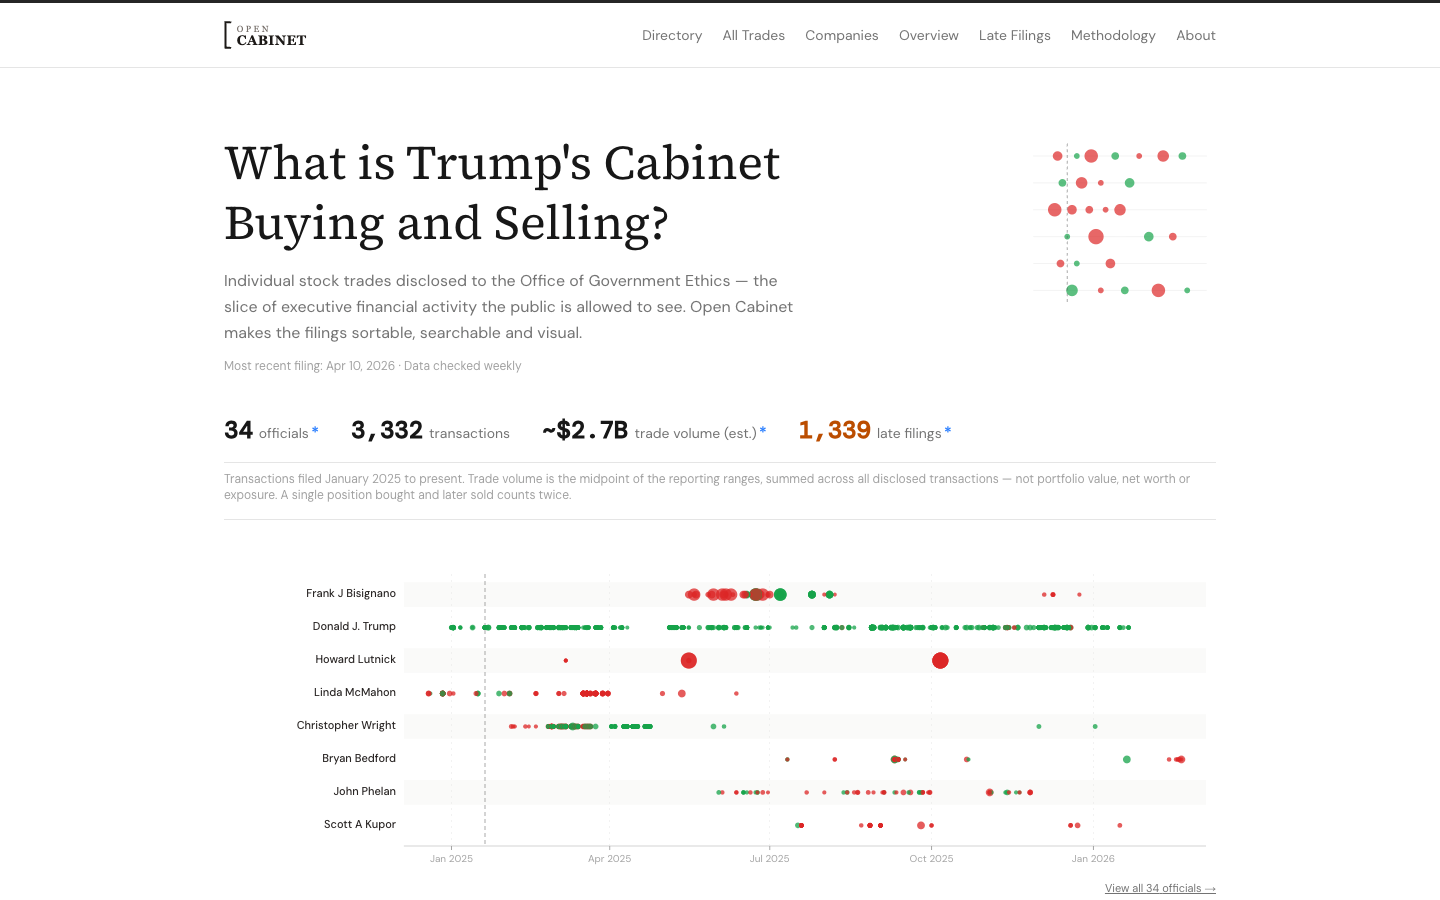
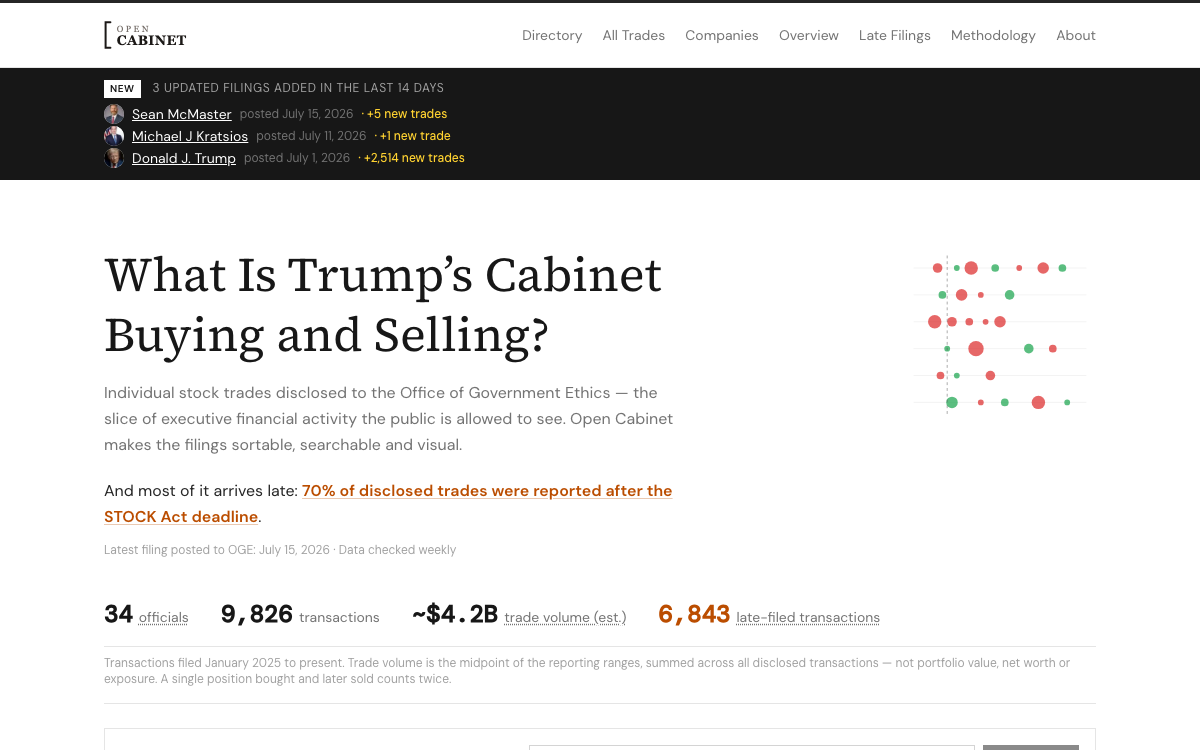
Refresh project stats to live-site numbers; add FOIA Tracker and Still in the Loop cards
- Open Cabinet: 9,800+ transactions, $4.2B, 70% late-filed finding (was 3,300+/$2.7B)
- Capitol Releases: all 535 members of Congress, 90,000+ records (was 100 senators/35,000)
- Delegation Decoded: aligned to live site (535 voting members, 4,800+ trades)
- New cards: FOIA Tracker and Still in the Loop; Still in the Loop replaces AI Model Arena in homepage featured six
- Mobile screenshots for all five civic cards, refreshed desktop shots
- KBD 'more than tripled' consistent site-wide (was 33% in two places)
- New OG image and meta description naming the open-government tools

diff --git a/content/demos.js b/content/demos.js
@@ -7,13 +7,13 @@ export const demoProjects = [
     slug: "delegation-decoded",
     subtitle: "Congressional Accountability, Organized by State Delegation",
     oneLiner: [
-      "Congressional tracker for all 538 members organized by state delegation — voting records, committees, campaign finance and STOCK Act trades pulled from six federal data sources into one Postgres schema.",
-      "House STOCK Act PDFs cracked with Claude Sonnet 4.6 vision — 4,350 trades parsed at 99.95% above the 80% confidence floor, with bogus-ticker filtering and a fallback enrichment pass.",
+      "Congressional tracker for all 535 voting members organized by state delegation — votes, bills, committees and campaign money pulled from official federal data sources into one Postgres schema.",
+      "House STOCK Act PDFs cracked with Claude Sonnet 4.6 vision — 4,800+ trades parsed at 99.95% above the 80% confidence floor, with bogus-ticker filtering and a fallback enrichment pass.",
     ],
     highlights: [
-      "538 members across 50 state delegations + DC + 5 territories",
-      "Six federal sources — Congress.gov, FEC, House Clerk, Senate eFD, roll-call XML, @unitedstates",
-      "4,350 STOCK Act trades from 215 filings (House PDFs + Senate HTML)",
+      "535 voting members across 50 state delegations — 537 tracked with delegates",
+      "Four federal data sources unified in one Postgres schema",
+      "4,800+ STOCK Act trades from 300+ filings (House PDFs + Senate HTML)",
       "Claude Sonnet 4.6 vision parsing of scanned House PTR PDFs",
       "Idempotent ingestion with live sync log + /health endpoint",
       "Dedicated /for-journalists page with downloads and citation language",
@@ -30,7 +30,7 @@ export const demoProjects = [
     screenshots: {
       desktopLight: "/images/demos/delegation-decoded-desktop-light.png",
       desktopDark: null,
-      mobileLight: null,
+      mobileLight: "/images/demos/delegation-decoded-mobile-light.png",
       mobileDark: null,
     },
     displayUrl: "delegation-decoded.vercel.app",
@@ -44,14 +44,14 @@ export const demoProjects = [
     slug: "open-cabinet",
     subtitle: "Financial Disclosure Tracker for U.S. Executive Branch",
     oneLiner: [
-      "Public tracker for U.S. executive-branch stock trades — 34 cabinet officials, 3,300+ transactions, $2.7B in trade volume parsed from OGE filings into searchable, structured data.",
+      "Public tracker for U.S. executive-branch stock trades — 34 cabinet officials, 9,800+ transactions, $4.2B in trade volume parsed from OGE filings into searchable, structured data.",
       "D3.js timelines mark each official's confirmation date and 90-day divestiture deadline so compliance gaps become visible at a glance. Built for journalists and accountability researchers.",
     ],
     highlights: [
       "34 cabinet and senior executive-branch officials tracked",
-      "3,300+ stock transactions parsed from OGE PDFs",
-      "$2.7B in trade volume across all disclosed transactions",
-      "1,339 late filings flagged against the 45-day STOCK Act deadline",
+      "9,800+ stock transactions parsed from OGE PDFs",
+      "$4.2B in trade volume across all disclosed transactions",
+      "70% of disclosed trades reported after the STOCK Act deadline — 6,843 late-filed transactions flagged",
       "Claude PDF parsing with confidence scoring and human-review fallback",
       "D3.js timelines + swim lanes + reverse company lookup",
     ],
@@ -67,7 +67,7 @@ export const demoProjects = [
     screenshots: {
       desktopLight: "/images/demos/open-cabinet-desktop-light.png",
       desktopDark: null,
-      mobileLight: null,
+      mobileLight: "/images/demos/open-cabinet-mobile-light.png",
       mobileDark: null,
     },
     displayUrl: "open-cabinet.org",
@@ -79,18 +79,18 @@ export const demoProjects = [
     id: 10,
     title: "Capitol Releases",
     slug: "capitol-releases",
-    subtitle: "Senate Press Release Archive — Updated 4x Daily",
+    subtitle: "Congressional Press Release Archive — Updated 4x Daily",
     oneLiner: [
-      "Archival-grade database of every press release from all 100 U.S. senators since January 2025 — 35,000+ records, four daily updates, deletion tombstones, public run history.",
-      "Mixed-collector pipeline (httpx + Playwright + RSS) handles 100 different Senate web setups. Per-senator coverage and per-CMS date-parse accuracy documented openly.",
+      "Archival-grade database of every press release from all 535 members of Congress since January 2025 — 90,000+ records, four daily updates, deletion tombstones, public run history.",
+      "Mixed-collector pipeline (httpx + Playwright + RSS) handles hundreds of different congressional web setups. Per-member coverage and per-CMS date-parse accuracy documented openly.",
     ],
     highlights: [
-      "35,000+ records from all 100 U.S. senators since Jan 1, 2025",
+      "90,000+ records from all 535 members of Congress since Jan 1, 2025",
+      "Covers both chambers — 100 Senate and 435 House offices",
       "Four daily refreshes with public run history at /status",
       "Deletion tombstones and provenance tracking on every record",
-      "Mixed httpx / Playwright / RSS collectors, ~60-min daily run",
+      "Mixed httpx / Playwright / RSS collectors across both chambers",
       "Postgres tsvector full-text search across the full archive",
-      "Chamber-agnostic schema — House expansion is a config change",
     ],
     technologies: [
       "Next.js",
@@ -105,12 +105,80 @@ export const demoProjects = [
     screenshots: {
       desktopLight: "/images/demos/capitol-releases-desktop-light.png",
       desktopDark: null,
-      mobileLight: null,
+      mobileLight: "/images/demos/capitol-releases-mobile-light.png",
       mobileDark: null,
     },
     displayUrl: "capitolreleases.com",
     siteLink: "https://capitolreleases.com",
     githubLink: "https://github.com/tbrown034/capitol-releases",
+    arcadeLink: null,
+  },
+  {
+    id: 13,
+    title: "FOIA Tracker",
+    slug: "foia-tracker",
+    subtitle: "Federal FOIA Backlog Dashboard",
+    oneLiner: [
+      "Documents the federal FOIA backlog agency by agency — more than 460,000 pending requests across 117 agencies' reports, built from 18 years of official FOIA.gov data.",
+      "Tracks the agencies that have stopped filing the quarterly reports that would reveal their backlogs — including the federal government's biggest FOIA filer. When an agency goes quiet, the absence is a finding too.",
+    ],
+    highlights: [
+      "460,000+ pending federal FOIA requests documented across 117 agencies",
+      "18 years of official FOIA.gov quarterly and annual report data",
+      "Flags agencies that have stopped filing the reports that would reveal their backlogs",
+      "Editorial-style charts built on D3 scales and shapes",
+      "TypeScript ingest pipeline processing official FOIA.gov data dumps",
+    ],
+    technologies: [
+      "Next.js",
+      "React",
+      "TypeScript",
+      "PostgreSQL (Neon)",
+      "D3.js",
+    ],
+    screenshots: {
+      desktopLight: "/images/demos/foia-tracker-desktop-light.png",
+      desktopDark: null,
+      mobileLight: "/images/demos/foia-tracker-mobile-light.png",
+      mobileDark: null,
+    },
+    displayUrl: "foiatracker.org",
+    siteLink: "https://foiatracker.org",
+    githubLink: "https://github.com/tbrown034/foia-tracker",
+    arcadeLink: null,
+  },
+  {
+    id: 14,
+    title: "Still in the Loop",
+    slug: "still-in-the-loop",
+    subtitle: "AI-Assisted Newsroom with a Human Always in the Loop",
+    oneLiner: [
+      "A source-tracked, human-reviewed AI newsroom covering the AI industry — frontier labs, developer tools and policy. Agents draft stories and track every source; a human journalist edits and approves each one before it publishes.",
+      "Built on Next.js and Payload CMS with Postgres — using AI to report on AI, without ever taking the human out of the loop.",
+    ],
+    highlights: [
+      "Agent-drafted, human-edited — no story publishes without editor approval",
+      "Every article source-tracked and labeled",
+      "The Loop newsletter three times a week, plus Atlas lab profiles and a running timeline",
+      "Payload CMS editorial backend on Postgres",
+      "Sections: News Feed, The Loop, Atlas, Timeline, Library",
+    ],
+    technologies: [
+      "Next.js",
+      "React",
+      "TypeScript",
+      "Payload CMS",
+      "PostgreSQL",
+    ],
+    screenshots: {
+      desktopLight: "/images/demos/still-in-the-loop-desktop-light.png",
+      desktopDark: null,
+      mobileLight: "/images/demos/still-in-the-loop-mobile-light.png",
+      mobileDark: null,
+    },
+    displayUrl: "stillintheloop.com",
+    siteLink: "https://www.stillintheloop.com",
+    githubLink: null,
     arcadeLink: null,
   },
   {

diff --git a/app/about/components/ResumePage.jsx b/app/about/components/ResumePage.jsx
@@ -275,17 +275,17 @@ export default function ResumeComponentResponsive({ showGuides = false }) {
                   <Project
                     name="Open Cabinet (2026)"
                     tech="Next.js, TypeScript, PostgreSQL, D3.js, Anthropic API"
-                    description="Public tracker for executive-branch stock trades. 34 cabinet officials, 3,300+ transactions, $2.7B parsed from OGE filings with Claude vision and rendered as D3 timelines"
+                    description="Public tracker for executive-branch stock trades. 34 cabinet officials, 9,800+ transactions, $4.2B parsed from OGE filings with Claude vision and rendered as D3 timelines"
                   />
                   <Project
                     name="Delegation Decoded (2026)"
                     tech="Next.js, TypeScript, PostgreSQL, Drizzle ORM, Anthropic API"
-                    description="Congressional accountability platform tracking all 538 members across six federal data sources. AI-vision parsing of House STOCK Act PDFs at 99.95% confidence"
+                    description="Congressional accountability platform tracking all 535 voting members by state delegation. AI-vision parsing of House STOCK Act PDFs at 99.95% confidence"
                   />
                   <Project
                     name="Capitol Releases (2025–2026)"
                     tech="Next.js, TypeScript, PostgreSQL, Python, Playwright"
-                    description="Archival-grade Senate press release database. 35,000+ records from all 100 senators, four daily updates, deletion tombstones, public run history"
+                    description="Archival-grade congressional press release database. 90,000+ records from all 535 members of Congress, four daily updates, deletion tombstones, public run history"
                   />
                   <Project
                     name="News Pulse (2025–2026)"

diff --git a/app/layout.js b/app/layout.js
@@ -17,16 +17,16 @@ export const metadata = {
   metadataBase: new URL("https://trevorthewebdeveloper.com"),
   title: "Trevor Brown: Copy + Code",
   description:
-    "Investigative journalist turned developer. Building thoughtful digital experiences with editorial precision and technical expertise.",
+    "Investigative journalist turned developer. I build open-government tools — Open Cabinet, Capitol Releases, FOIA Tracker — plus production sites and an AI-assisted newsroom.",
   openGraph: {
     title: "Trevor Brown: Copy + Code",
     description:
-      "Investigative journalist turned developer. Building thoughtful digital experiences with editorial precision and technical expertise.",
+      "Investigative journalist turned developer. I build open-government tools — Open Cabinet, Capitol Releases, FOIA Tracker — plus production sites and an AI-assisted newsroom.",
     url: "https://trevorthewebdeveloper.com",
     siteName: "Trevor Brown Portfolio",
     images: [
       {
-        url: "/images/Aug17desktopview.png",
+        url: "/images/og-home.png",
         width: 1200,
         height: 630,
         alt: "Trevor Brown Portfolio - Copy + Code",
@@ -39,8 +39,8 @@ export const metadata = {
     card: "summary_large_image",
     title: "Trevor Brown: Copy + Code",
     description:
-      "Investigative journalist turned developer. Building thoughtful digital experiences with editorial precision and technical expertise.",
-    images: ["/images/Aug17desktopview.png"],
+      "Investigative journalist turned developer. I build open-government tools — Open Cabinet, Capitol Releases, FOIA Tracker — plus production sites and an AI-assisted newsroom.",
+    images: ["/images/og-home.png"],
   },
 };
 

diff --git a/content/coding.js b/content/coding.js
@@ -16,7 +16,7 @@ export const webProjects = [
     ],
     createdDate: "2026",
     description:
-      "Financial disclosure tracker for U.S. executive branch officials. 617 pages of OGE filings parsed into searchable data with $2.9B in assets tracked. Interactive D3.js visualizations for asset breakdowns.",
+      "Financial disclosure tracker for U.S. executive branch officials. 9,800+ stock transactions parsed from OGE filings with $4.2B in trade volume tracked. Interactive D3.js visualizations for asset breakdowns.",
     githubLink: "https://github.com/tbrown034/open-cabinet",
     siteLink: "https://open-cabinet.org",
   },
@@ -34,7 +34,7 @@ export const webProjects = [
     ],
     createdDate: "2026",
     description:
-      "Congressional press release tracker and analyzer monitoring all 100 U.S. senators. Aggregates official communications into per-senator intelligence reports with trend analysis.",
+      "Congressional press release tracker and analyzer covering all 535 members of Congress. Aggregates official communications into per-member intelligence reports with trend analysis.",
     githubLink: "https://github.com/tbrown034/capitol-releases",
     siteLink: "https://capitolreleases.com",
   },

diff --git a/app/home/sections/ProjectsTeaser.jsx b/app/home/sections/ProjectsTeaser.jsx
@@ -2,7 +2,7 @@ import Link from "next/link";
 import Image from "next/image";
 import { demoProjects } from "@content/demos.js";
 
-const FEATURED_IDS = [9, 11, 10, 2, 1, 3];
+const FEATURED_IDS = [9, 11, 10, 2, 1, 14];
 const featuredProjects = FEATURED_IDS.map((id) =>
   demoProjects.find((p) => p.id === id)
 ).filter(Boolean);
@@ -20,9 +20,9 @@ export default function ProjectsTeaser() {
             Web Projects
           </h2>
           <p className="text-lg text-gray-600 dark:text-neutral-300 max-w-3xl mt-3">
-            Production sites and open-source tools — from tracking $2.7B in
-            executive branch stock trades to monitoring press releases from
-            all 100 U.S. senators.
+            Production sites and open-source tools — from tracking $4.2B in
+            executive branch stock trades to archiving press releases from
+            all 535 members of Congress.
           </p>
           <div className="space-y-1 mt-4">
             <div className="border-t-2 border-gray-900 dark:border-white"></div>

diff --git a/app/projects/page.jsx b/app/projects/page.jsx
@@ -53,7 +53,7 @@ export default function DemosPage() {
             >
               dental practice site
             </a>{" "}
-            that increased bookings by more than 33% — to open-source intelligence tools,
+            that more than tripled new patient bookings — to open-source intelligence tools,
             AI model comparisons and a personal data platform processing
             200,000-plus records.
           </p>
